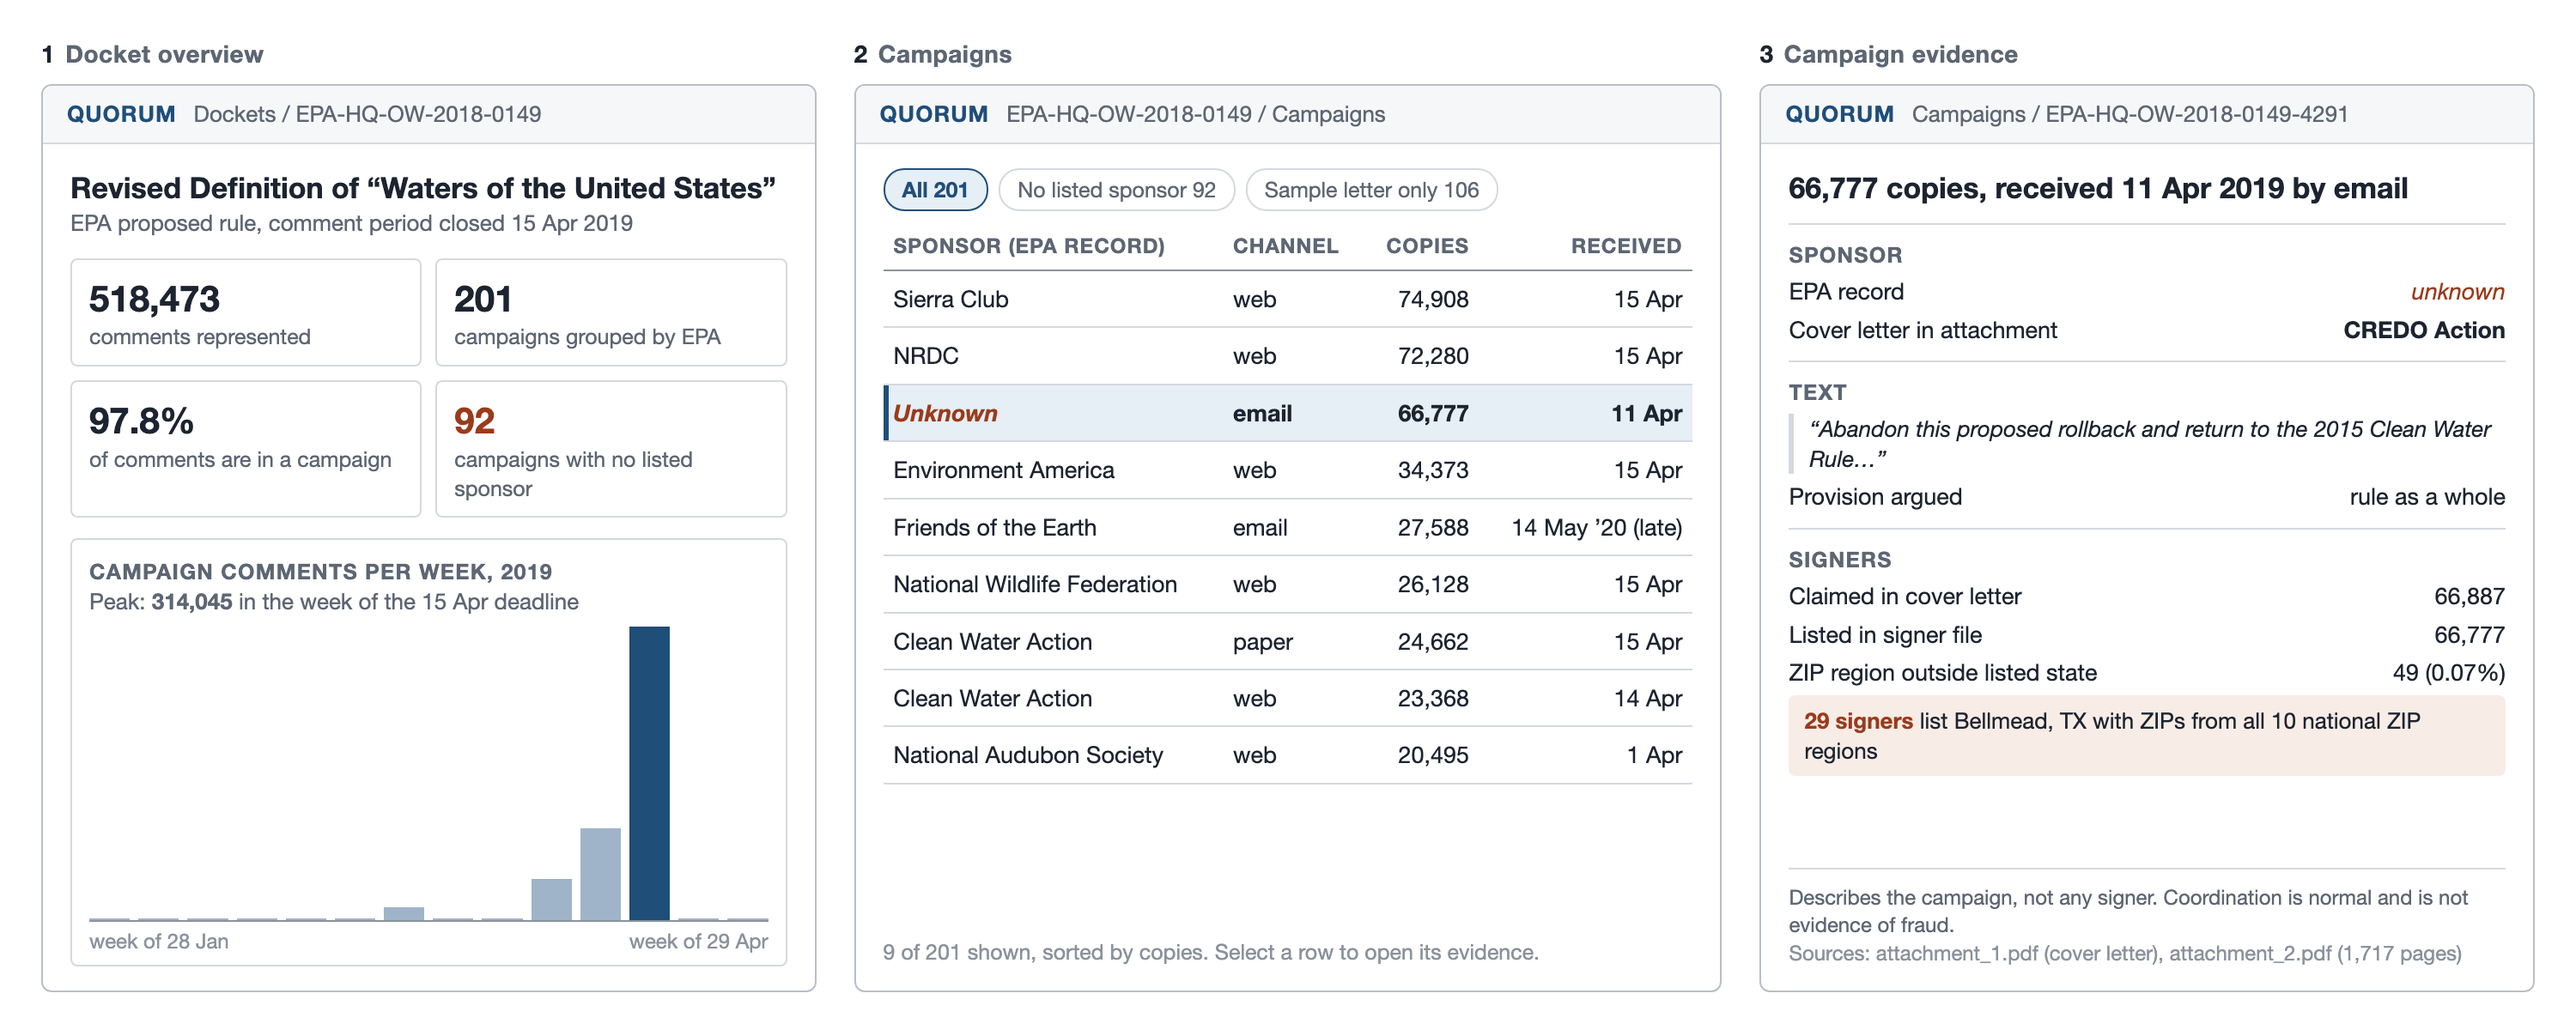
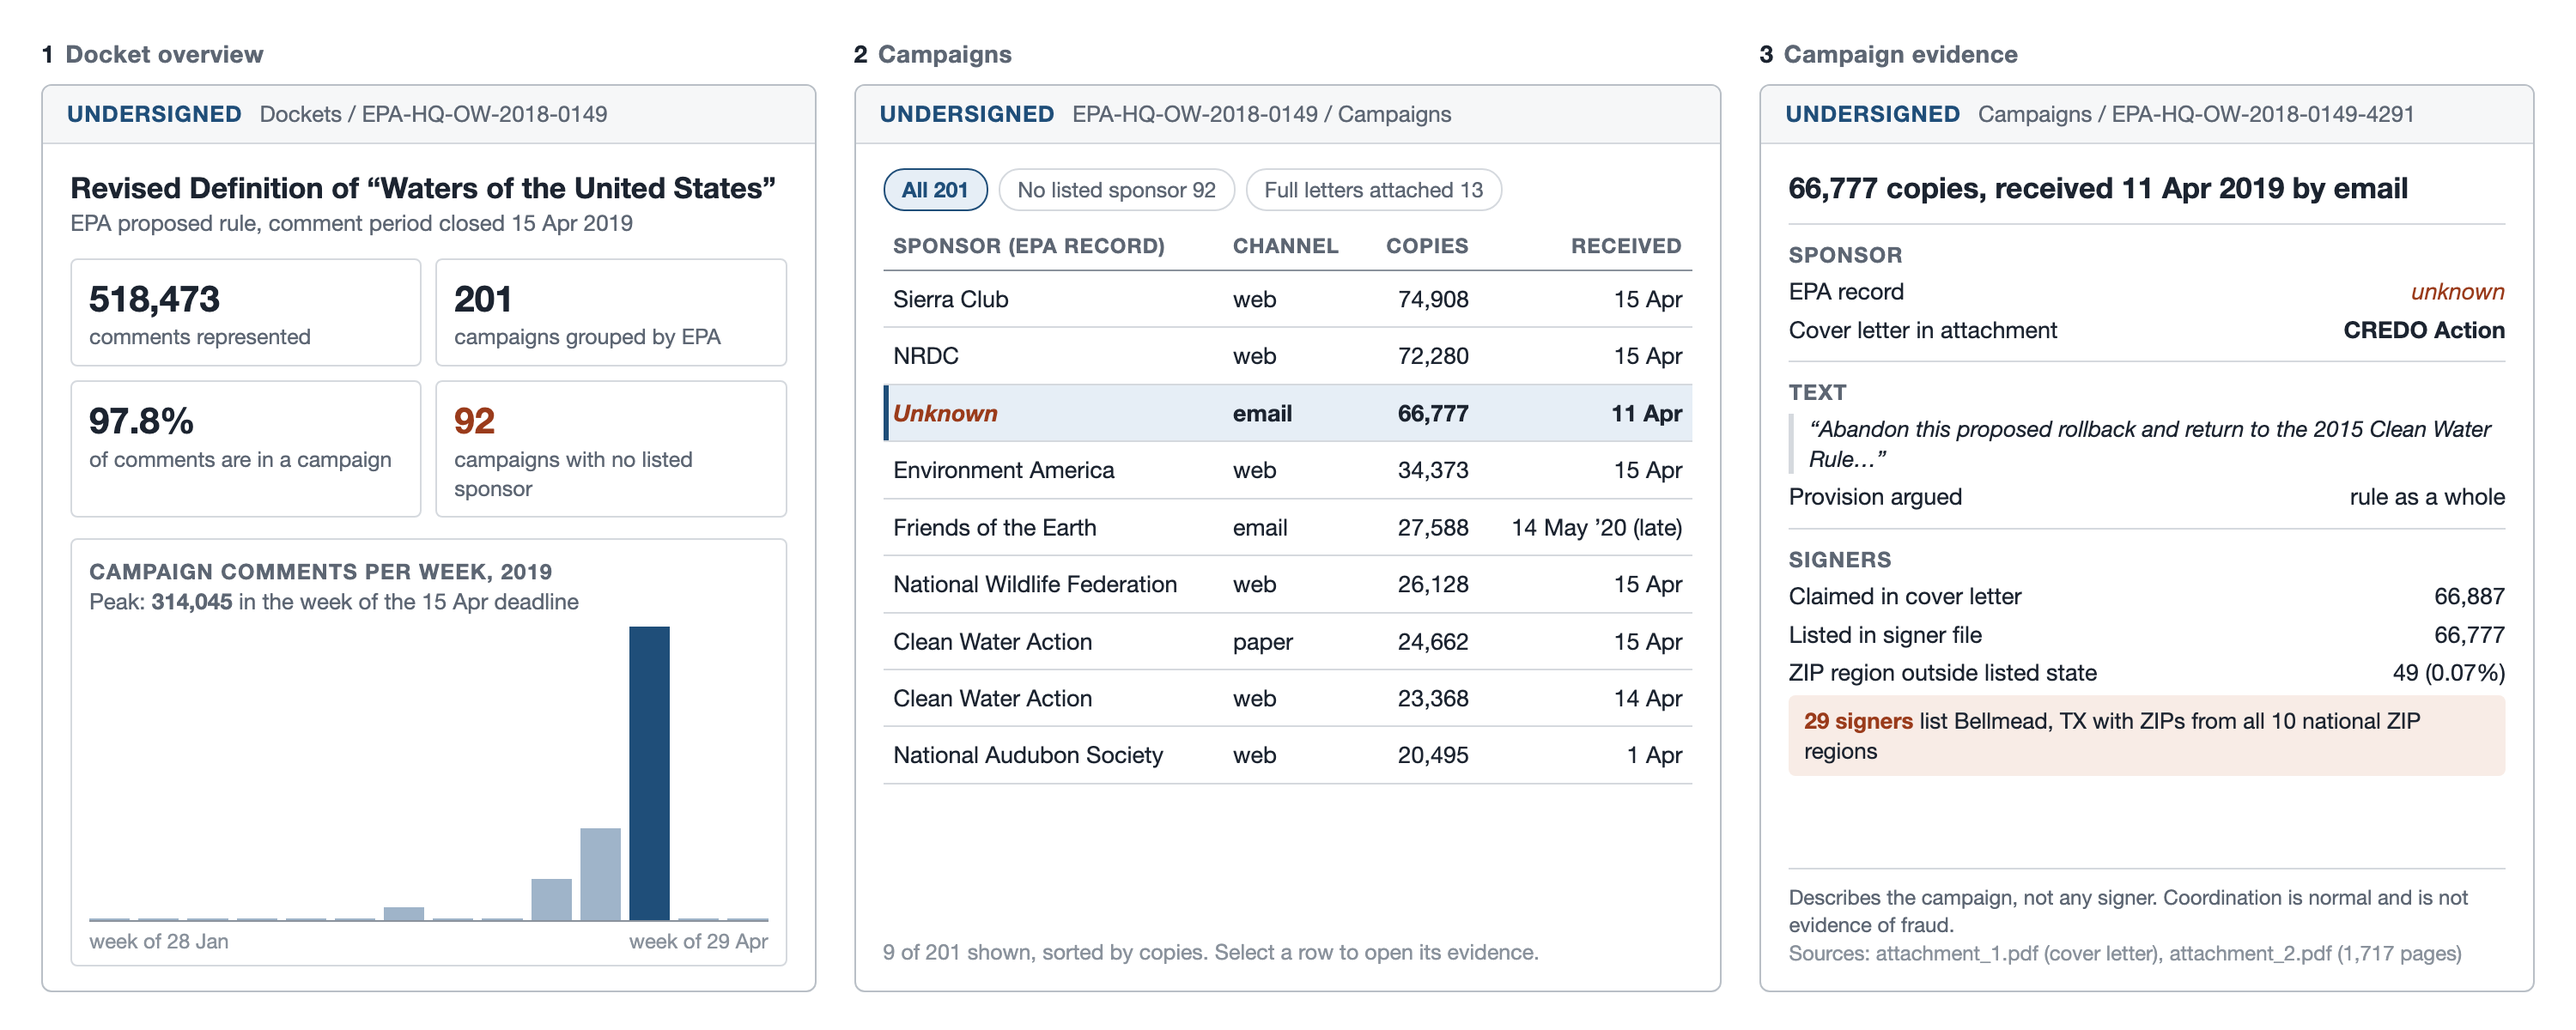
Rename project to Undersigned

diff --git a/docs/mock.html b/docs/mock.html
@@ -2,7 +2,7 @@
 <html lang="en">
 <head>
 <meta charset="utf-8">
-<title>Quorum wireframe</title>
+<title>Undersigned wireframe</title>
 <!-- Wireframe for the MS1 statement of work. Rendered to docs/mock.png with headless Chrome at 1500x600.
      Screens 1 and 2 use records from EPA-HQ-OW-2018-0149 retrieved 27 Sep 2026.
      Screen 3 is campaign EPA-HQ-OW-2018-0149-4291, read from its two PDF attachments. -->
@@ -66,7 +66,7 @@
 <section class="screen">
   <div class="cap"><b>1</b>Docket overview</div>
   <div class="frame">
-    <div class="bar"><span class="logo">QUORUM</span><span>Dockets / EPA-HQ-OW-2018-0149</span></div>
+    <div class="bar"><span class="logo">UNDERSIGNED</span><span>Dockets / EPA-HQ-OW-2018-0149</span></div>
     <div class="body">
       <div>
         <h1>Revised Definition of &ldquo;Waters of the United States&rdquo;</h1>
@@ -92,12 +92,12 @@
 <section class="screen" style="flex:1.12">
   <div class="cap"><b>2</b>Campaigns</div>
   <div class="frame">
-    <div class="bar"><span class="logo">QUORUM</span><span>EPA-HQ-OW-2018-0149 / Campaigns</span></div>
+    <div class="bar"><span class="logo">UNDERSIGNED</span><span>EPA-HQ-OW-2018-0149 / Campaigns</span></div>
     <div class="body">
       <div class="chips">
         <span class="chip on">All 201</span>
         <span class="chip">No listed sponsor 92</span>
-        <span class="chip">Sample letter only 106</span>
+        <span class="chip">Full letters attached 13</span>
       </div>
       <table>
         <tr><th>Sponsor (EPA record)</th><th>Channel</th><th class="n">Copies</th><th class="n">Received</th></tr>
@@ -120,7 +120,7 @@
 <section class="screen">
   <div class="cap"><b>3</b>Campaign evidence</div>
   <div class="frame">
-    <div class="bar"><span class="logo">QUORUM</span><span>Campaigns / EPA-HQ-OW-2018-0149-4291</span></div>
+    <div class="bar"><span class="logo">UNDERSIGNED</span><span>Campaigns / EPA-HQ-OW-2018-0149-4291</span></div>
     <div class="body" style="gap:9px">
       <div>
         <h1>66,777 copies, received 11 Apr 2019 by email</h1>

diff --git a/docs/architecture.html b/docs/architecture.html
@@ -2,7 +2,7 @@
 <html lang="en">
 <head>
 <meta charset="utf-8">
-<title>Quorum architecture</title>
+<title>Undersigned architecture</title>
 <!-- Preliminary architecture for the MS1 appendix. Rendered to docs/architecture.png with headless
      Chrome at 1600x640. Boxes are containers or managed services; arrows are data flow. -->
 <style>

diff --git a/milestone1.tex b/milestone1.tex
@@ -1,4 +1,4 @@
-% Quorum, AC215 Milestone 1 statement of work. PDF to Canvas by 9:00 PM, 29 Sep. Limit 3 pages.
+% Undersigned, AC215 Milestone 1 statement of work. PDF to Canvas by 9:00 PM, 29 Sep. Limit 3 pages.
 % Dev docket numbers measured against the Regulations.gov API, 20 and 27 Sep 2026.
 
 \documentclass[10pt]{article}
@@ -25,7 +25,7 @@
 \begin{document}
 
 \begin{center}
-{\Large\bfseries Quorum: Who Is Behind a Public Comment Campaign?}\\[5pt]
+{\Large\bfseries Undersigned: Who Is Behind a Public Comment Campaign?}\\[5pt]
 Aidan Eichman, Aadil Jamari, Livia Jonnatan, Andrew Yuan, Rishi Jain\\[1pt]
 {\footnotesize aidaneichman@g.harvard.edu, ajamari@g.harvard.edu, liviajonnatan@g.harvard.edu,
 ayuan@g.harvard.edu, rishi\_jain@brown.edu}
